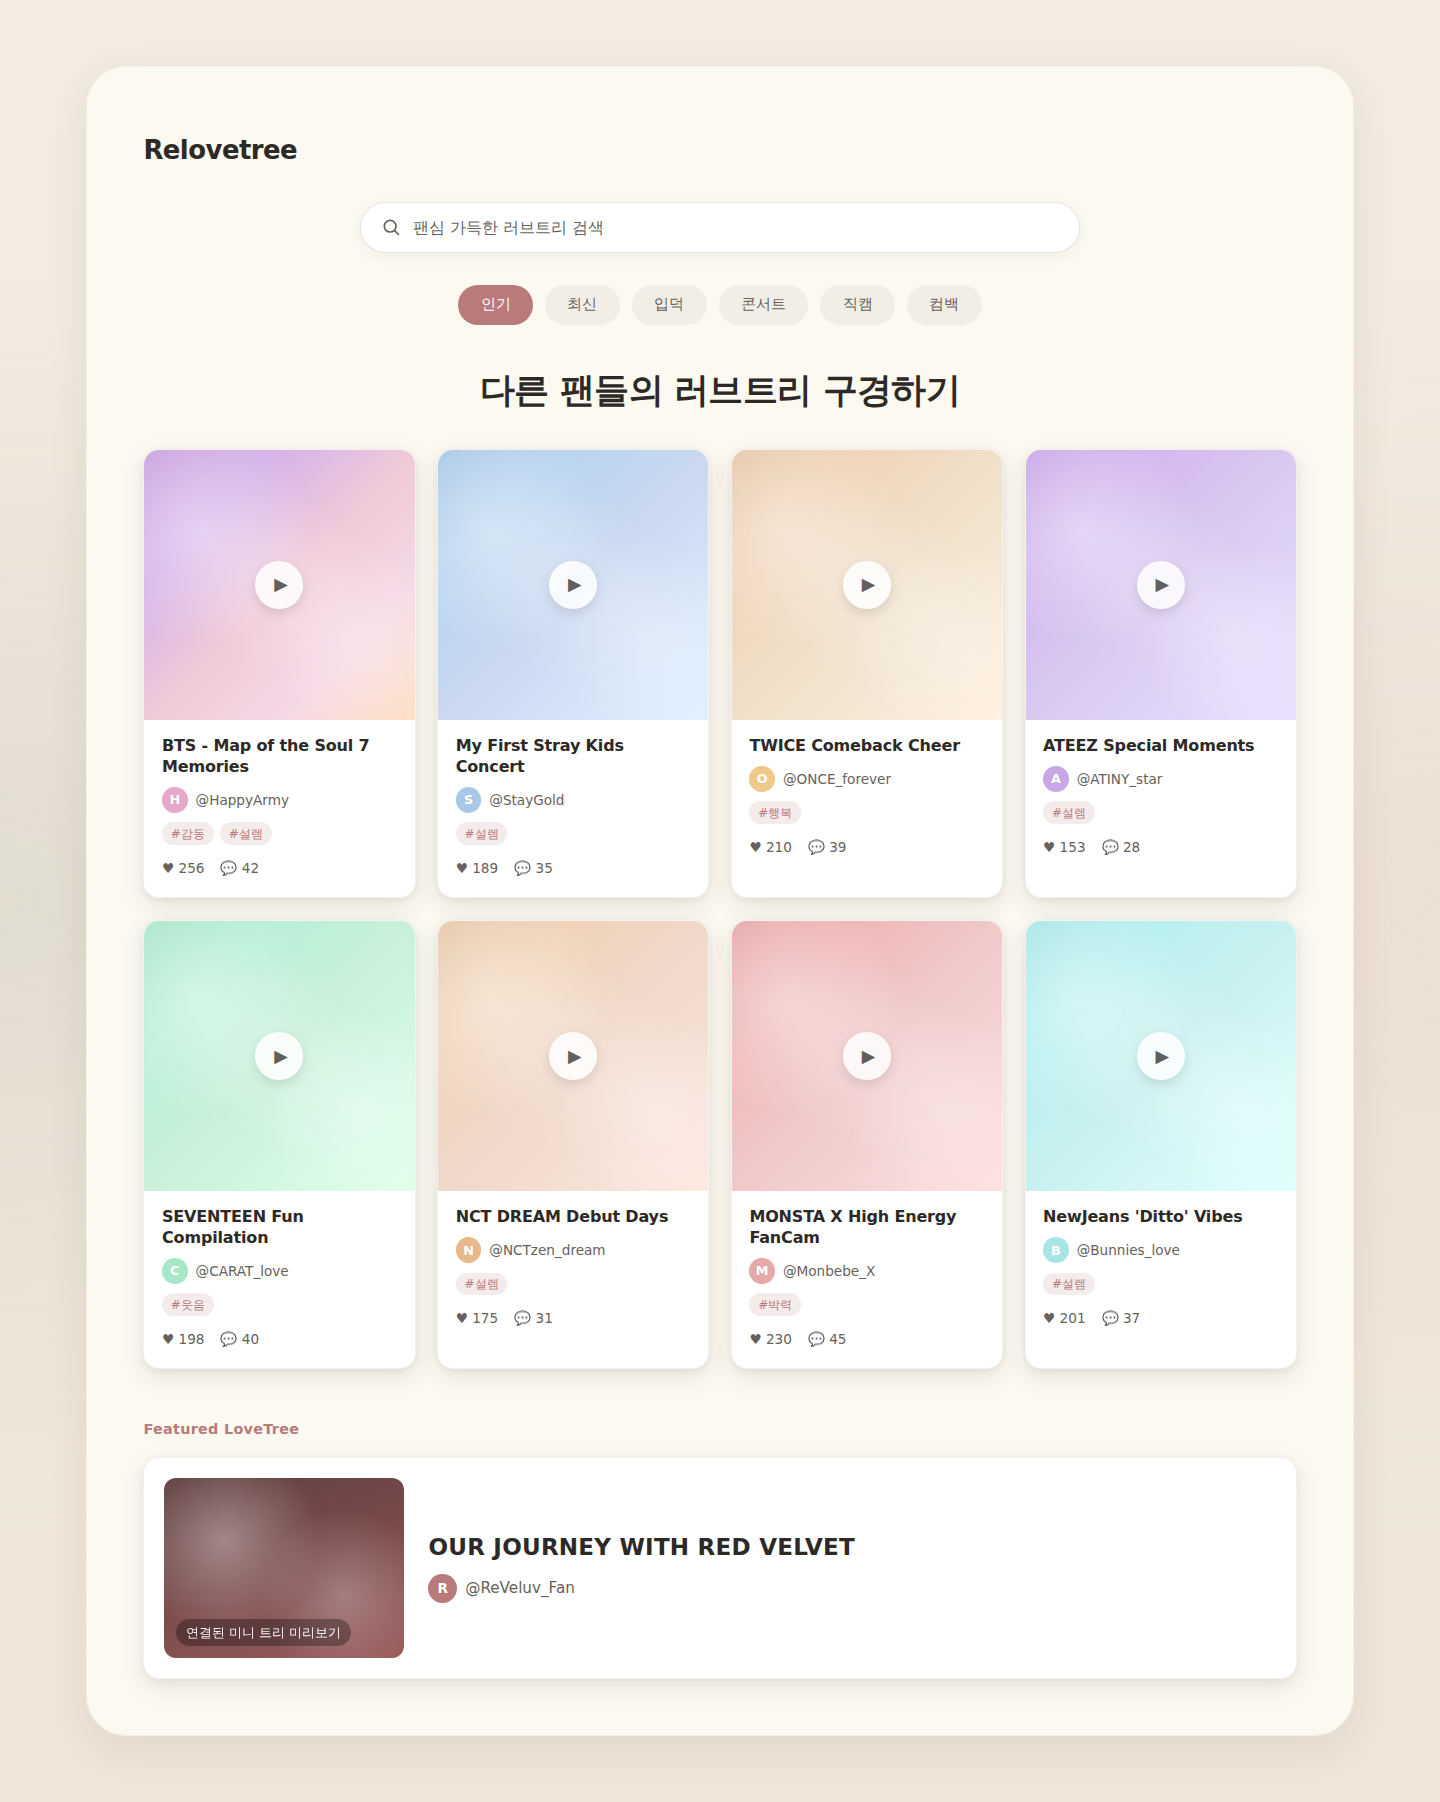
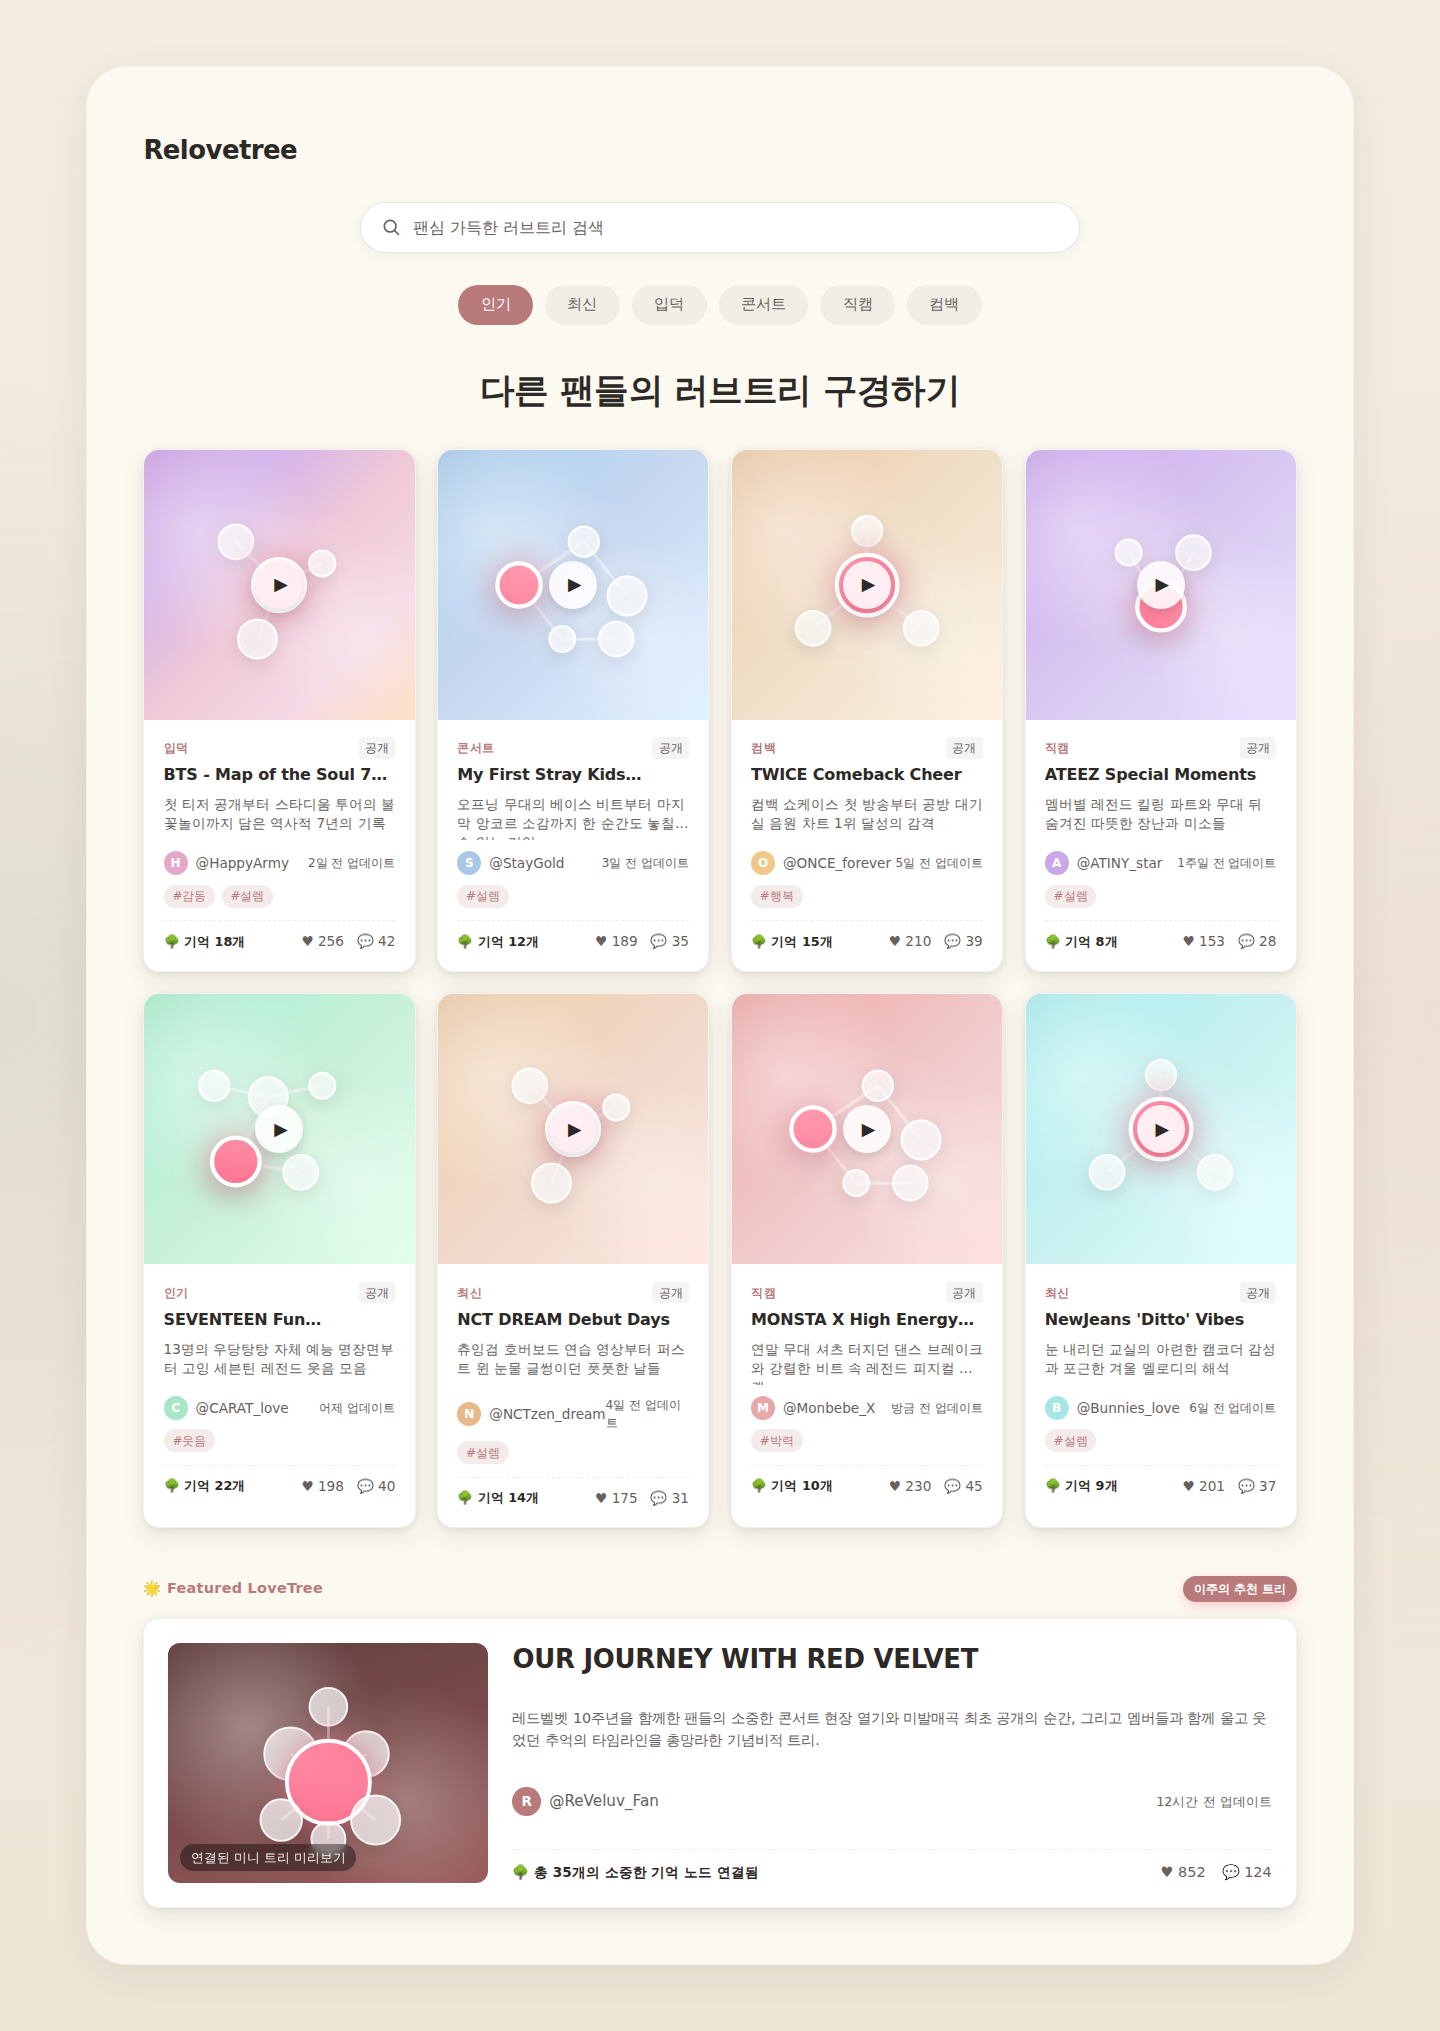
docs: refresh detailed community visual evidence

Changed region(s): [[0.0938, 0.0932, 0.9062, 0.9945], [0.0938, 0.0622, 0.2188, 0.0932], [0.7812, 0.8391, 0.875, 0.8701]]

diff --git a/docs/evidence/community-visual/known-visual-differences.md b/docs/evidence/community-visual/known-visual-differences.md
@@ -23,13 +23,13 @@ This document describes the known visual differences between the reference image
 - **Mobile:** Single column layout
 - **Header:** Brand logo + search bar
 - **Categories:** Horizontal scrollable chips
-- **Featured Section:** Full-width featured card
+- **Featured Section:** Prominent header and card with side-by-side SVG tree structures
 
 ### Visual Elements
 
 #### Card Thumbnails
 - **Reference:** Gradient backgrounds with bokeh effect
-- **Implementation:** Multi-stop gradients with radial overlay
+- **Implementation:** Multi-stop gradients with radial overlay and SVG connection trees (3-5 nodes)
 - **Difference:** Subtle color variation due to gradient stopping points
 
 #### Typography
@@ -46,13 +46,19 @@ This document describes the known visual differences between the reference image
 - **Viewport:** 390px (DPR 2)
 - **Expected PNG width:** 780px
 - **Actual PNG width:** 780px ✅
+- **Actual PNG height:** 8856px ✅
 - **Horizontal overflow:** None ✅
[1 lines of base64/hex data omitted]
+- **Visual Evidence Git blob SHA:** `07121729e3719cec0dd5ebdeec3832a5152b6364`
 
 ### Desktop Specifics
 - **Viewport:** 1440px (DPR 1)
 - **Expected PNG width:** 1440px
 - **Actual PNG width:** 1440px ✅
+- **Actual PNG height:** 2031px ✅
 - **Horizontal overflow:** None ✅
[1 lines of base64/hex data omitted]
+- **Visual Evidence Git blob SHA:** `84c11d863e77296769215756e010322526f02295`
 
 ## Known Differences
 
@@ -68,6 +74,7 @@ This document describes the known visual differences between the reference image
 ### Card Thumbnails
 - Multi-stop gradients (5 stops) for richer color depth
 - Radial bokeh overlay with transparency
+- SVG Tree Node structure (3-5 nodes, lines, active node emphasis) layered on gradients
 - Subtle border for card definition
 
 ### Shadows & Depth
@@ -76,42 +83,15 @@ This document describes the known visual differences between the reference image
 - Hover state transitions with depth increase
 
 ### Featured Section
-- Enhanced featured card with bokeh overlay
-- Improved visual separation from grid cards
+- Enhanced featured card with custom large SVG tree layout (7 nodes, connections, special glowing active node)
+- Rich description summary text and metadata (기억 수, 업데이트 라벨, 추천 배지)
 - Hover effects for interactive feedback
-
-### Typography
-- CSS custom properties for consistent theming
-- Mobile-first responsive approach
-
-## Visual Refinement Notes (Future)
-
-### Priority 1: Card Thumbnail Enhancement
-- Add more complex gradient patterns
-- Enhance bokeh effect with multiple radial gradients
-- Improve color depth and variation
-
-### Priority 2: Shadow & Depth
-- Increase shadow depth for better visual hierarchy
-- Add subtle border for card definition
-- Improve hover state transitions
-
-### Priority 3: Typography Hierarchy
-- Increase title font size
-- Improve weight contrast between elements
-- Enhance letter spacing for readability
-
-### Priority 4: Featured Section
-- Make featured card more prominent
-- Add gradient overlay for depth
-- Improve visual separation from grid cards
 
 ## Accessibility
 
-- All interactive elements have focus-visible states
-- Color contrast meets WCAG AA standards
-- Screen reader friendly structure
-- Keyboard navigation supported
+- All interactive controls have focus-visible outlines styled appropriately.
+- Automated WCAG AA color-contrast compliance was not independently measured.
+- Full screen-reader and keyboard-flow audits remain pending.
 
 ## Technical Notes
 
@@ -119,3 +99,4 @@ This document describes the known visual differences between the reference image
 - Responsive design with mobile-first approach
 - No horizontal overflow on any viewport
 - Smooth transitions for hover states
+- SVG graphics marked with `aria-hidden="true"` to prevent bloating the accessibility tree.
